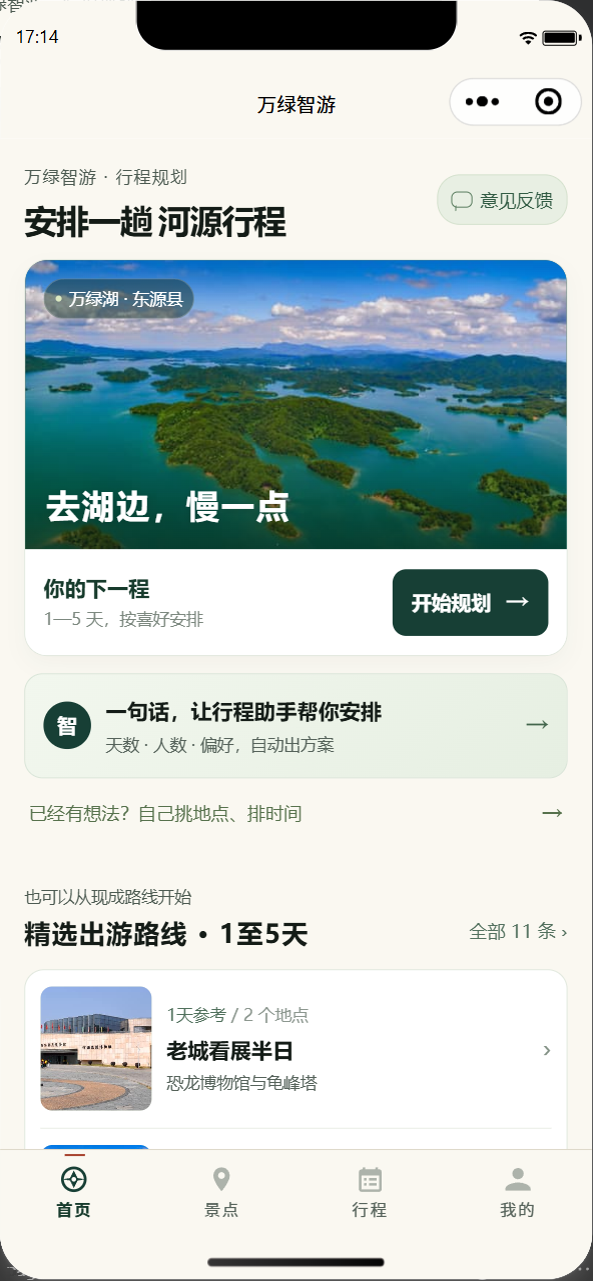
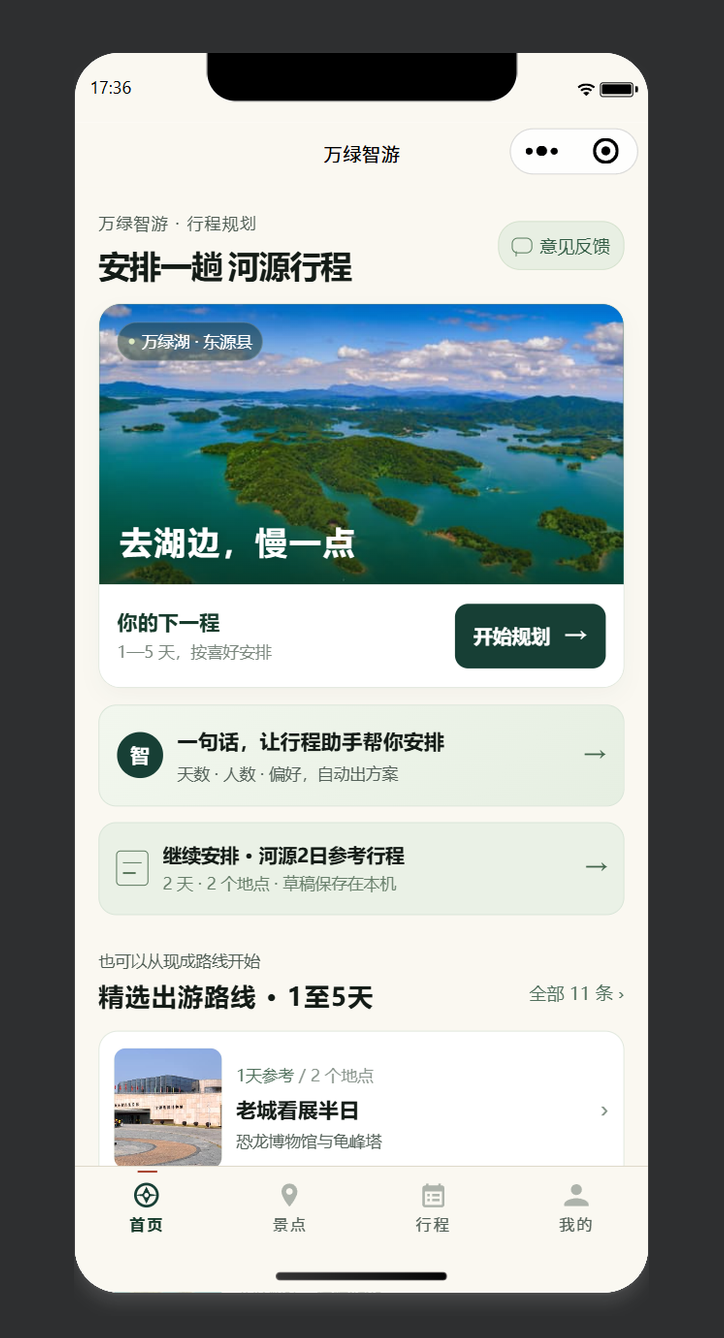
替换为带设备外框的实机截图，统一裁切尺寸

diff --git a/README.md b/README.md
@@ -8,7 +8,7 @@
 
 ## 界面预览
 
-以下截图取自微信开发者工具模拟器（iPhone X，593×1281），均为真实运行界面。
+以下截图取自微信开发者工具模拟器（iPhone X），统一裁切为 724×1338 并保留设备外框，均为真实运行界面。
 
 **首页** —— 通栏封面、精选路线与自定义底部导航。
 
